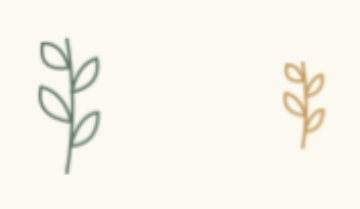
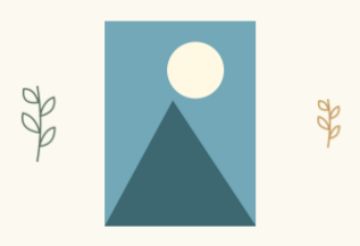
Show color and accent methods in page context

diff --git a/src/creation-library/examples.js b/src/creation-library/examples.js
@@ -18,6 +18,26 @@ export function techniqueExample(method){
   p.aliases=['m10','m11'];
   before.push({op:'material.add',id:'photo',asset:'m1',place:{reference:'page',at:[72,88],unit:'mm'}});
  }
+ if(method.id==='accent-spark'){
+  p.at=[77,82];
+  before.push({op:'material.add',id:'photo',asset:'m1',place:{reference:'page',at:[82,98],unit:'mm'}});
+ }
+ if(method.id==='accent-sprig'){
+  p.at=[72,88];p.widthMm=70;
+  before.push({op:'material.add',id:'photo',asset:'m1',place:{reference:'page',at:[72,88],unit:'mm'}});
+ }
+ if(method.id==='accent-stitch'){
+  p.at=[72,90];
+  before.push({op:'material.add',id:'note',asset:'m6',place:{reference:'page',at:[72,73],unit:'mm'}});
+ }
+ if(method.id==='accent-rings'){
+  p.at=[72,88];
+  before.push({op:'material.add',id:'photo',asset:'m1',place:{reference:'page',at:[30,88],unit:'mm'}},{op:'material.add',id:'card',asset:'m2',place:{reference:'page',at:[113,88],unit:'mm'}});
+ }
+ if(method.id==='accent-confetti'){
+  p.at=[70,81];
+  before.push({op:'material.add',id:'note',asset:'m6',place:{reference:'page',at:[86,89],unit:'mm'}});
+ }
  if(method.recipe==='film'){p.aliases=['m1','m2','m3'];p.at=[74,88];}
  if(method.recipe==='materials'){p.aliases=['m1','m2','m3'];if(method.defaults.captionPosition)p.caption='一片颜色，一段小记。';}
  if(method.skill==='photo-story'&&['materials','film'].includes(method.recipe))p.aliases=['m1','m8','m9'];
@@ -60,6 +80,14 @@ export function techniqueExample(method){
   before.push({op:'material.add',id:'note',asset:'m6',place:{reference:'page',at:[118,88],unit:'mm'}});
  }
  if(method.id==='pattern-stripes')before.push({op:'graphic.add',id:'ground',geometry:{kind:'rect'},place:{reference:'page',at:[72,88],unit:'mm'},size:{width:58,height:28,unit:'mm'},style:{fill:'#F1E8D5',stroke:null}});
+ if(method.id==='color-echo'){
+  p.at=[72,113];p.widthMm=70;p.heightMm=38;p.colors=['#3D6871','#FFF9E3','#72A8B7'];
+  before.push({op:'material.add',id:'photo',asset:'m1',place:{reference:'page',at:[72,88],unit:'mm'}});
+ }
+ if(method.id==='color-bands'){
+  p.at=[72,90];p.widthMm=70;p.heightMm=38;p.colors=['#3D6871','#E5B456'];
+  before.push({op:'material.add',id:'photo',asset:'m1',place:{reference:'page',at:[72,72],unit:'mm'}});
+ }
  if(method.recipe==='tape'){
   p.aliases=['m4'];
   if(method.id==='tape-fix')before.push({op:'material.add',id:'photo',asset:'m1',place:{reference:'page',at:[72,107],unit:'mm'}});

diff --git a/docs/CREATION_LIBRARY_AUDIT.md b/docs/CREATION_LIBRARY_AUDIT.md
@@ -214,3 +214,10 @@
 - 用八件真实素材包分别复验“对角层次”“真实小物配组”“气泡批注框”。对角层次保留 62.7×98.1 mm 主卡、24.1×26.7 mm 文字贴纸、41.9×14.9 mm 纸条；配组保留 84.5×65.7 mm 标题卡与两件原尺寸贴纸；气泡文字独立可编辑。三张成图和报告已目视检查。
 - 配组首次因保护区域过大而跳过一件贴纸；扩大局部布置高度并按真实主卡边界设保护区后，两件均被放置。该案例说明工具会在尺寸或保护区冲突时省略素材，而不会擅自缩小。示例是显式选材和显式位置，不代表自动选择最合适素材或排版；仍需模型整页视觉检查。
 - 模板仍为 78 个，后续模板解析按用户要求暂停。复验未调用远程模型、未进行实体设备验收或上线。
+
+## 配色与数字点缀方法复核
+
+- “三点呼应”“主辅色条”的示意补入参照照片，颜色与照片中实际绘制的深蓝绿、浅蓝和奶油色对应。教材说明颜色需由调用方观察素材后指定 HEX；工具只生成可编辑色点和色条，不声称自动取色。
+- 五个数字点缀方法的示意分别放在照片角、照片两侧、便签纸边、两件素材之间和便签空角，展示各自服务的内容。对五个方法分别改写步骤与检查项，避免用同一组泛化文字描述不同用途。七张新示意已逐张目视核对；合成素材仍只是工具示意，不是用户真实素材。
+- 本轮不增加方法或模板，仍为 72 个方法、78 个模板；后续模板解析继续暂停。
+- 完整回归 1960 项通过、1 项跳过、0 失败；UI smoke、React 流程及 7 视口路由通过。未进行远程模型自主创作、实体设备验收或上线。
